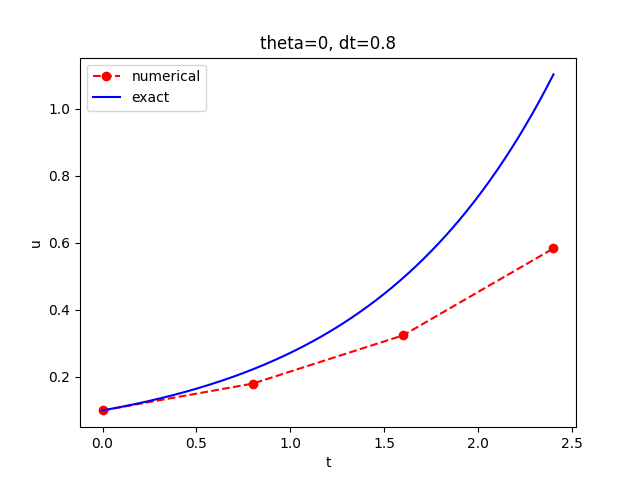
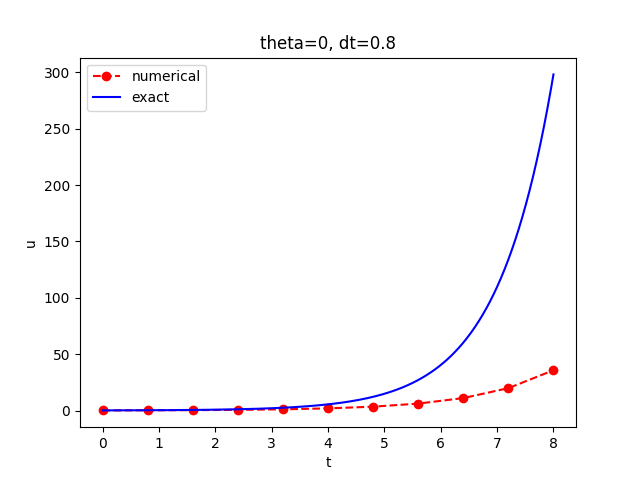
Use more points on plots

diff --git a/projects/decay_v3.py b/projects/decay_v3.py
@@ -50,7 +50,8 @@ def test_solver_three_steps():
     theta, a, I, dt = 0.8, 2, 0.1, 0.8
     u_by_hand = np.array([I, 0.0298245614035, 0.00889504462912, 0.00265290804728])
 
-    Nt = 3  # number of time steps
+    if Nt is None:
+        Nt = 3  # number of time steps
     u, _ = solver(I, a, Nt * dt, dt, theta)
 
     tol = 1e-12  # tolerance for comparing floats
